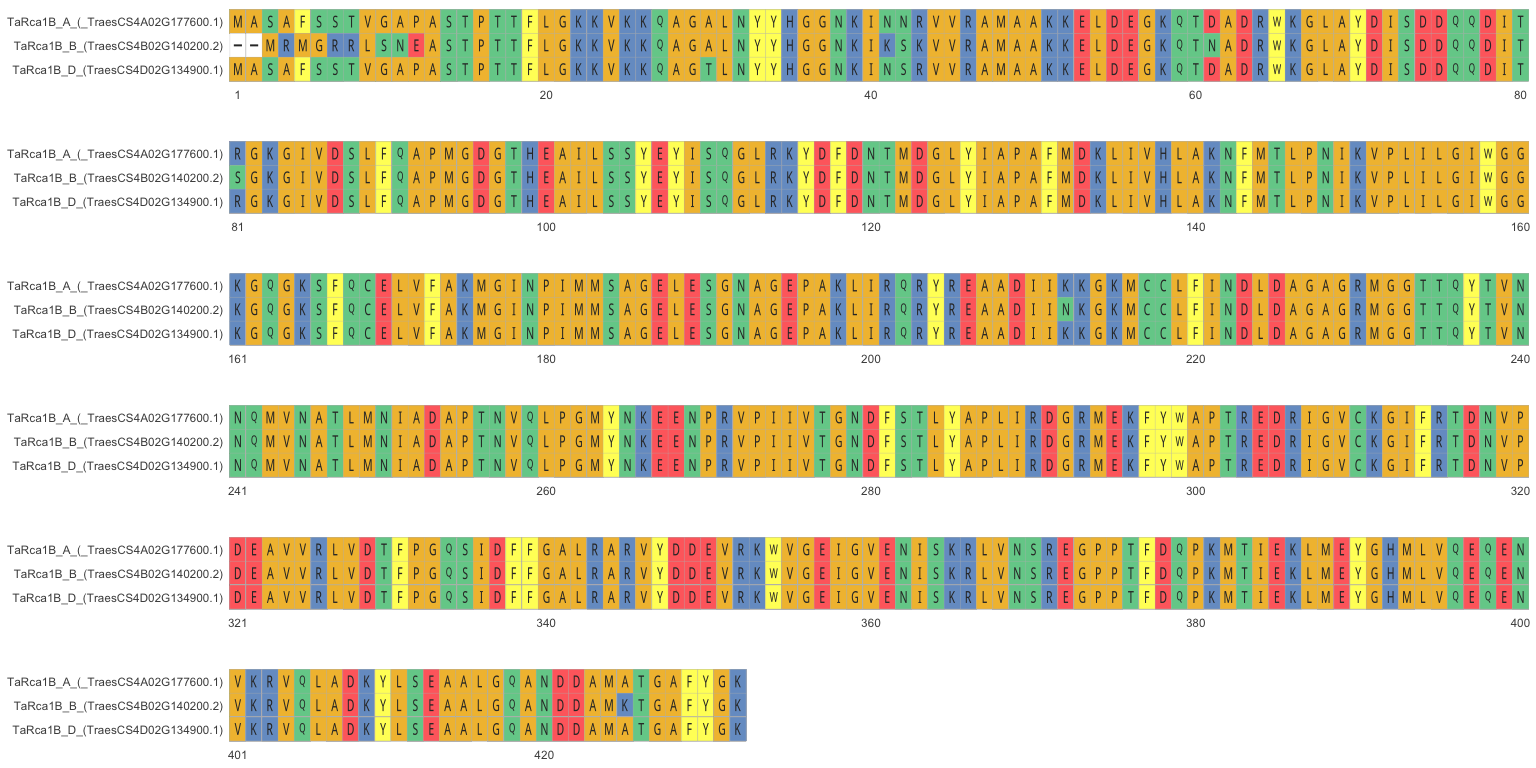
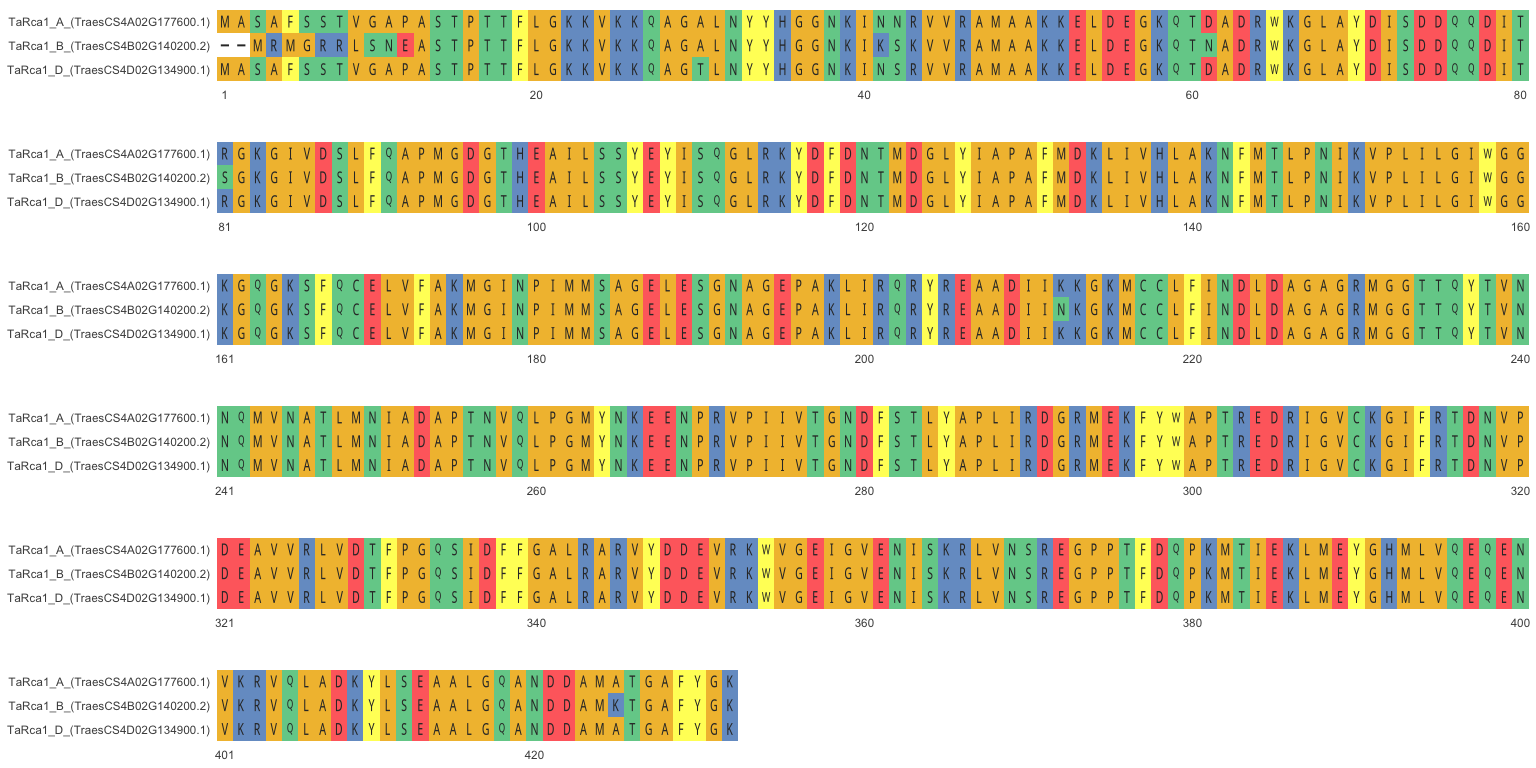
Improved alignment

diff --git a/How-to-use-ggmsa.md b/How-to-use-ggmsa.md
@@ -57,9 +57,9 @@ TaRca1_sequences
 
     ## AAStringSet object of length 3:
     ##     width seq                                               names               
-    ## [1]   432 MASAFSSTVGAPASTPTTFLGKK...YLSEAALGQANDDAMATGAFYGK TaRca1B_A_(_Traes...
-    ## [2]   432 --MRMGRRLSNEASTPTTFLGKK...YLSEAALGQANDDAMKTGAFYGK TaRca1B_B_(TraesC...
-    ## [3]   432 MASAFSSTVGAPASTPTTFLGKK...YLSEAALGQANDDAMATGAFYGK TaRca1B_D_(TraesC...
+    ## [1]   432 MASAFSSTVGAPASTPTTFLGKK...YLSEAALGQANDDAMATGAFYGK TaRca1_A_(TraesCS...
+    ## [2]   432 --MRMGRRLSNEASTPTTFLGKK...YLSEAALGQANDDAMKTGAFYGK TaRca1_B_(TraesCS...
+    ## [3]   432 MASAFSSTVGAPASTPTTFLGKK...YLSEAALGQANDDAMATGAFYGK TaRca1_D_(TraesCS...
 
 ## Create Alignment
 
@@ -70,8 +70,8 @@ wish). `facet_msa()` will wrap your alignment by a number of amino
 acids, every 120 in this example.
 
 ``` r
-ggmsa(TaRca1_sequences, 0, 432, font = "DroidSansMono", char_width = 0.50, seq_name = TRUE ) +
-facet_msa(field = 80)
+ggmsa(TaRca1_sequences, 0, 432, font = "DroidSansMono", char_width = 0.50, seq_name = TRUE,border = NA) +
+facet_msa(field = 80) 
 ```
 
 ![](How-to-use-ggmsa_files/figure-gfm/unnamed-chunk-5-1.png)<!-- -->
